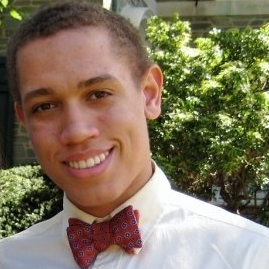
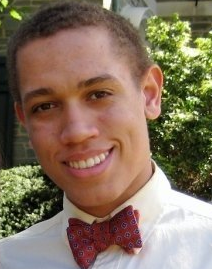
team pics up. about page design 90%

diff --git a/public/stylesheets/style.css b/public/stylesheets/style.css
@@ -83,18 +83,31 @@ li{
   height:450px;
 }
 
+.brands, .bloggers, .advertisers h3 {
+
+
+}
+
+#ascotForAll img {
+  width:400px;
+  height:200px;
+  position:relative;
+  margin:auto;
+  left:20px;
+  right:0;
+  border:2px solid rgb(194, 192, 192);
+  margin-bottom:5px;
+}
+
+
+
 .leadingText, #ascotForAll, #ascotTeam {
   border-bottom:1px rgba(123,121,121,0.2) solid;
   padding-bottom:8px;
 }
 
-#ascotTeam {
-  border:1px orange solid;
-  clear:both;
-  overflow:hidden;
-}
 h1.aboutHead {
-  border-bottom: 2px #7b7979 solid;
+  border-bottom: 1px #7B7979 solid;
 }
 
 h2.aboutHead {
@@ -133,10 +146,9 @@ h2.aboutHead {
 }
 
 #valueProps {
-  width:40%;
+  width:43%;
   position:relative;
   margin:auto;
-
 }
 
 #valueProps li {
@@ -149,16 +161,23 @@ h2.aboutHead {
 
 #valueProps li.selected {
   opacity:1;
-  border-bottom:2px #b54f37 solid;
+  border-bottom:1px #b54f37 solid;
 }
 
 .selected{
   border-bottom:2px blue solid;
 }
+
+#ascotTeam {
+  clear:both;
+  overflow:hidden;
+  border-bottom:none;
+}
+
 #ascotTeam ul {
-  border:1px green solid;
   padding:0; 
   overflow:hidden;
+  padding-bottom:55px;
 }
 
 #ascotTeam li {
@@ -168,7 +187,6 @@ float:left;
 }
 
 .teamMember {
-border:1px blue solid;
 height:130px;
 width:105px;
 display:inline;
@@ -631,7 +649,7 @@ h1, h2 {
     0px 1px 0px rgba(255,255,255,0.3);
 
 
-background: #ffffff; /* Old browsers */
+background: #ffffff; /* Old vowsers */
 background: -moz-linear-gradient(top, #ffffff 0%, #e5e5e5 100%); /* FF3.6+ */
 background: -webkit-gradient(linear, left top, left bottom, color-stop(0%,#ffffff), color-stop(100%,#e5e5e5)); /* Chrome,Safari4+ */
 background: -webkit-linear-gradient(top, #ffffff 0%,#e5e5e5 100%); /* Chrome10+,Safari5.1+ */
